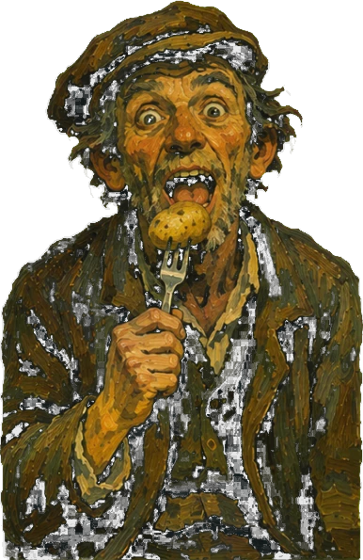
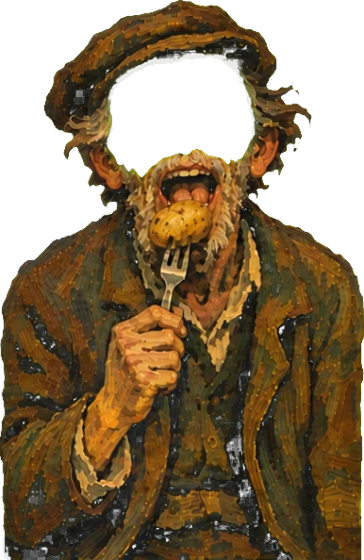
感恩節接火雞試玩：換成大熊做的挖洞版村民（有的只挖嘴、奶奶挖眼鏡），膚色改固定值

diff --git a/catch-demo.html b/catch-demo.html
@@ -568,9 +568,9 @@ function matchSkin(c){try{const rc=bCv.getBoundingClientRect(),W=rc.width||300,H
   const fx=(GM.hx-x0)*sc,fy=(GM.hy-y0)*sc,fr=GM.rx*.55*sc;   // 自拍裡對到臉洞中間的那一塊
   const x=c.getContext('2d'),d=x.getImageData(0,0,c.width,c.height),p=d.data;let r=0,g=0,b=0,n=0;
   for(let y=Math.max(0,fy-fr|0);y<Math.min(c.height,fy+fr);y+=2)for(let xx=Math.max(0,fx-fr|0);xx<Math.min(c.width,fx+fr);xx+=2){const i=((y|0)*c.width+(xx|0))*4;r+=p[i];g+=p[i+1];b+=p[i+2];n++}
-  if(!n)return c;const t=skinOf(bChar),k=[t[0]/(r/n),t[1]/(g/n),t[2]/(b/n)].map(v=>clamp(v,.35,1.5));
+  if(!n)return c;const t=skinOf(bChar),k=[t[0]/(r/n),t[1]/(g/n),t[2]/(b/n)].map(v=>clamp(v,.12,1.6));   // 下限放寬，藍色才壓得下來（畫裡的膚色藍很少）
   for(let i=0;i<p.length;i+=4){const l=(p[i]+p[i+1]+p[i+2])/3;   // 先去掉一點鮮豔，再乘上配色係數
-    p[i]=clamp((p[i]*.75+l*.25)*k[0],0,255);p[i+1]=clamp((p[i+1]*.75+l*.25)*k[1],0,255);p[i+2]=clamp((p[i+2]*.75+l*.25)*k[2],0,255)}
+    p[i]=clamp((p[i]*.9+l*.1)*k[0],0,255);p[i+1]=clamp((p[i+1]*.9+l*.1)*k[1],0,255);p[i+2]=clamp((p[i+2]*.9+l*.1)*k[2],0,255)}
   x.putImageData(d,0,0);c.matched=true;return c}catch(e){return c}}
 function paintify(src){try{
   const k=Math.min(1,420/Math.max(src.width,src.height)),w=Math.max(8,Math.round(src.width*k)),h=Math.max(8,Math.round(src.height*k));
@@ -599,7 +599,9 @@ const FOLK=[{n:'名畫裡的女兒',src:null},
   {n:'端咖啡的農夫',f:[.536,.278,.385,.257]},{n:'拿叉子的婦人',f:[.511,.285,.409,.269]},{n:'抽菸斗的爺爺',f:[.503,.287,.388,.253]},{n:'端馬鈴薯的姑娘',f:[.497,.285,.416,.274]},{n:'大鬍子大叔',f:[.52,.30,.36,.25]},
   {n:'抱麵包的師傅',f:[.489,.225,.275,.19]},{n:'抱火雞的大嬸',f:[.577,.203,.337,.216]},{n:'吃馬鈴薯的大叔',f:[.47,.25,.34,.24]},{n:'織毛線的奶奶',f:[.504,.281,.331,.223]},{n:'等開飯的紳士',f:[.461,.21,.32,.212]},
   {n:'拿畫筆的畫家',f:[.561,.294,.395,.26]},{n:'拿調色盤的畫家',f:[.494,.309,.401,.264]},{n:'抱向日葵的女孩',f:[.51,.256,.387,.255]},{n:'提燈的少年',f:[.525,.279,.391,.26]},{n:'舉杯的工人',f:[.553,.261,.369,.244]}];
-FOLK.forEach((c,i)=>{if(i){const k=String(i).padStart(2,'0');c.img=new Image();c.img.src='catch-video/folk/f'+k+'.png';c.mask=new Image();c.mask.src='catch-video/folk/m'+k+'.png'}});   // m＝照臉型做的洞（11/14 大熊：不要圓圈，要貼合臉的輪廓；有鬍子的留鬍子）
+/* 每位角色的膚色（從舊版完整臉的圖量的，新版的臉已經挖空量不到） */
+const FOLK_SKIN=[[105,76,29],[126,90,37],[112,79,31],[126,92,38],[109,77,30],[160,112,44],[174,125,42],[151,106,36],[152,107,31],[147,104,40],[154,113,38],[156,116,37],[173,130,52],[171,126,37],[161,115,41]];
+FOLK.forEach((c,i)=>{if(i){c.skin=FOLK_SKIN[i-1];const k=String(i).padStart(2,'0');c.img=new Image();c.img.src='catch-video/folk/f'+k+'.png';c.mask=new Image();c.mask.src='catch-video/folk/m'+k+'.png'}});   // m＝照臉型做的洞（11/14 大熊：不要圓圈，要貼合臉的輪廓；有鬍子的留鬍子）
 let bChar=FOLK[0];
 function bGeom(W,H){if(!bChar.img)return{hx:BHOLE.x*W,hy:BHOLE.y*H,rx:BHOLE.rx*W,ry:BHOLE.ry*H};
   const im=bChar.img,ch=H*.97,cw=ch*(im.naturalWidth||370)/(im.naturalHeight||560),x0=(W-cw)/2,y0=H-ch,f=bChar.f;
